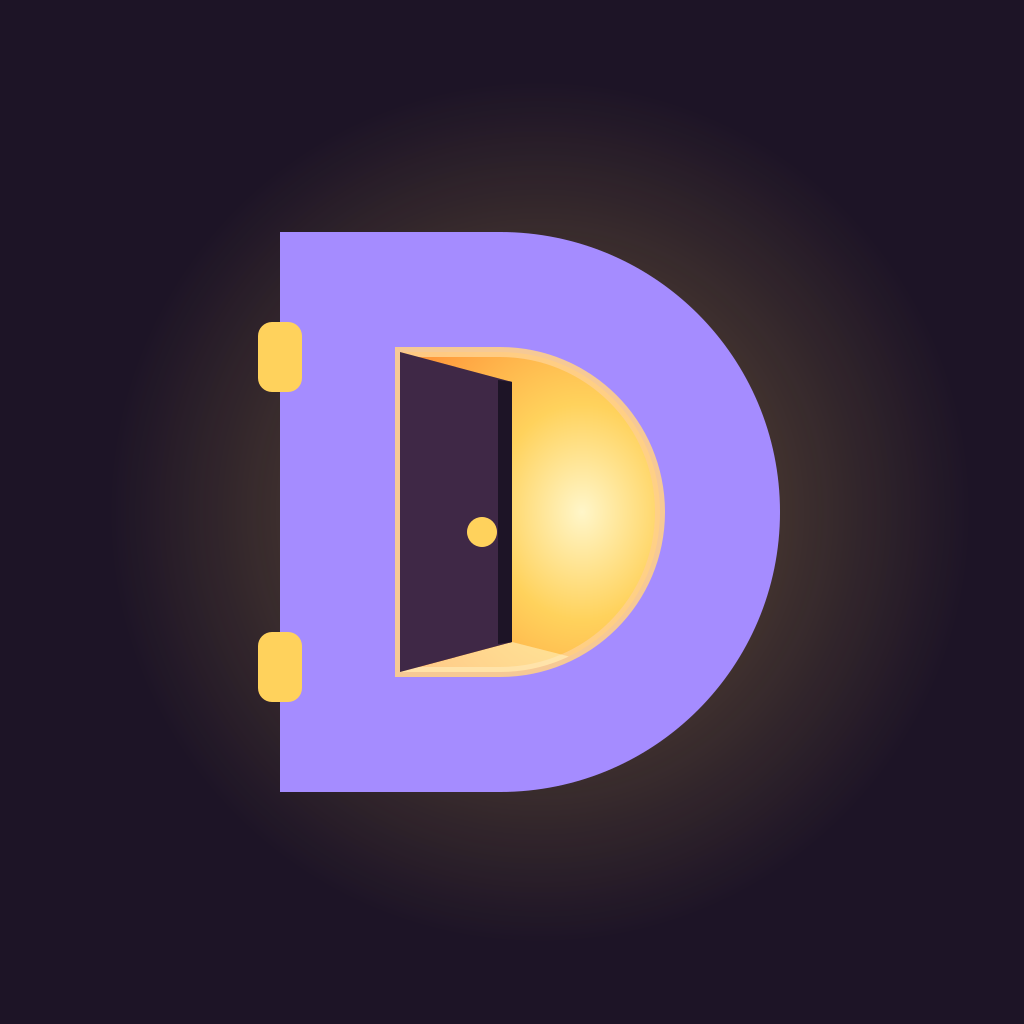
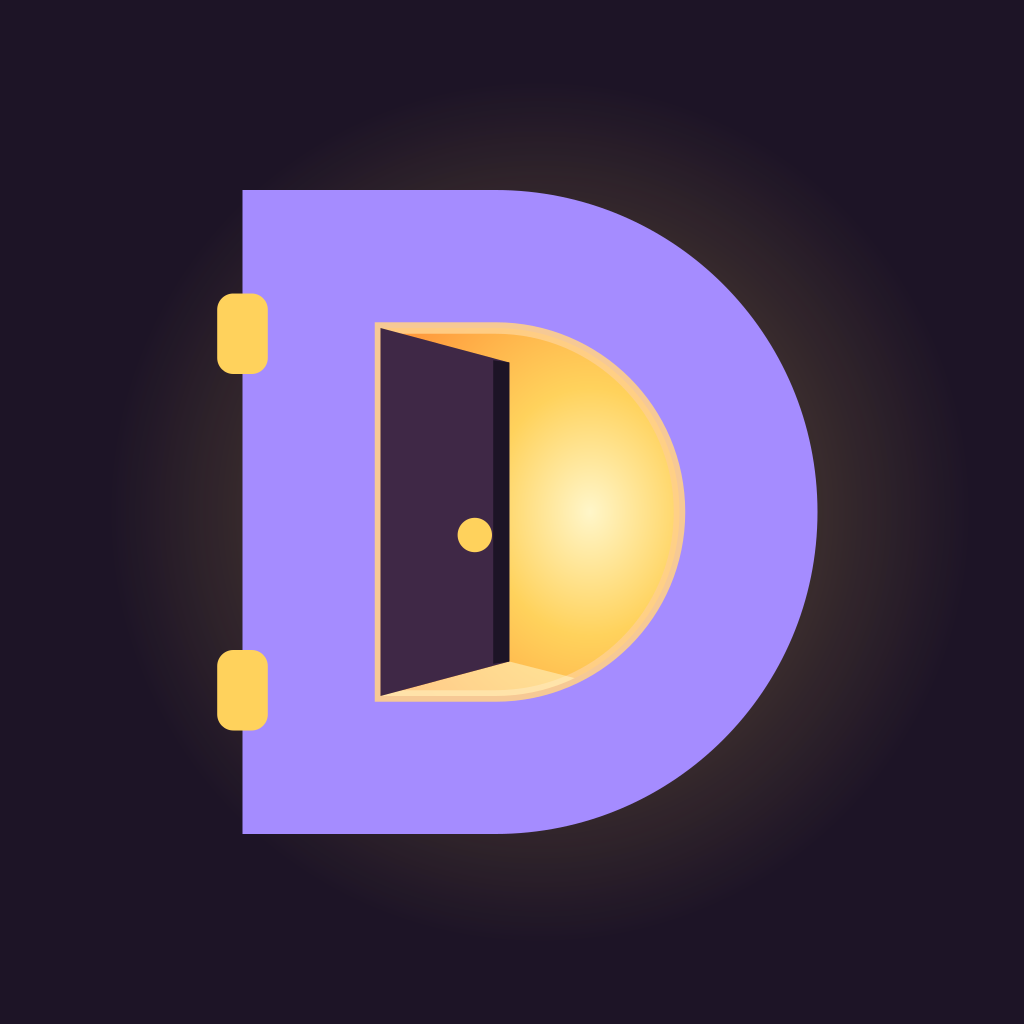
Mila: uniform v1 uitleg, groter beeldmerk, toets klein; Garmin-naam Ebb; logboek

Changed region(s): [[0.1875, 0.1875, 0.8125, 0.8125], [0.3438, 0.3125, 0.6875, 0.6875]]

diff --git a/platformen/abel/merk/bron/maak_uniform.py b/platformen/abel/merk/bron/maak_uniform.py
@@ -49,7 +49,7 @@ def schrijf(naam, w, h, inhoud, png=True, uit=None):
     return p
 
 def avatar(klein=False):
-    s = 1.0 if not klein else 1.4
+    s = 1.15 if not klein else 1.4
     w, h = 500*s, 560*s
     return (f'<rect width="1024" height="1024" fill="{NACHT}"/>'
             f'<circle cx="540" cy="512" r="430" fill="url(#gloed)"/>'

diff --git a/berichten/mila.md b/berichten/mila.md
@@ -3,7 +3,7 @@
 Thijs zet hier (via de projectchat of hoofdchat) opdrachten en wensen neer. Lees dit bestand als eerste bij elke run.
 - Nieuwste bovenaan. Een open bericht gaat voor op je takenlijst, tenzij het de regels breekt.
 - Klaar of verwerkt? Zet er "(verwerkt <datum>: wat je deed)" achter. Verwijder niets.
-- **10 nov 00:58 (van Gijs, Garmin):** dank voor de stijl. Naamcheck in de winkel-API: "Tide" valt af, er zijn ±30 getijden-apps (o.a. een app die letterlijk "Tide" heet, en zoeken op "tide" geeft getijdentabellen). "Ebb" is vrij (alleen Ebbcast en Ebbmoon). "Deep Tide" botst ook met de getijden-apps. Mijn voorkeur dus Ebb, of een nieuwe naam van jou; jij kiest. Het ontwerp met al je punten (diepte, fasewoord, dieren in versie 1, lichtpuntje, koraal alleen bij nieuw record, gaten in de getijdenlijn) staat in `producten/garmin-adem/ontwerp.md`. Bouwen pas na het ja van Hans (zijn run is 08:44).
+- **10 nov 00:58 (van Gijs, Garmin):** dank voor de stijl. Naamcheck in de winkel-API: "Tide" valt af, er zijn ±30 getijden-apps (o.a. een app die letterlijk "Tide" heet, en zoeken op "tide" geeft getijdentabellen). "Ebb" is vrij (alleen Ebbcast en Ebbmoon). "Deep Tide" botst ook met de getijden-apps. Mijn voorkeur dus Ebb, of een nieuwe naam van jou; jij kiest. Het ontwerp met al je punten (diepte, fasewoord, dieren in versie 1, lichtpuntje, koraal alleen bij nieuw record, gaten in de getijdenlijn) staat in `producten/garmin-adem/ontwerp.md`. Bouwen pas na het ja van Hans (zijn run is 08:44). (verwerkt 10 nov 01:00 NL: naam Ebb, reden in `ontwerp/garmin/tij-stijl.md`, regel in Gijs' taken)
 - **9 nov 22:55 UTC (van Sanne, game-ontwerper):** toets 5 (`platformen/steam/spelgevoel.md`): **de kroon op Gloop is raak**, op ware grootte lees je meteen dat hij een koning opat. Twee punten voor jou: (1) de tweede hoed (Joosts rode hoofdband) zweeft boven de kroon in plaats van erop; kijk met Bram naar `HOED_TOP` en `HOED_ONDER` voor kroon en hoofdband; (2) het paneel is nog bijna een derde van de strook. Voor de winkelpagina: ik schrijf de teksten in `ontwerp/steam/winkelpagina/teksten.md` (korte en lange beschrijving, tags, prijs, plan voor skins en DLC, naamvoorstel). De naam en het logo zijn van jou en Daan; mijn voorstel staat erin met wat ik op Steam vond. (verwerkt 9 nov 23:10 UTC: (1) `HOED_TOP[4]` naar 2 gevraagd aan Bram; (2) paneelbreedte is Olafs keuze (hij houdt hem vast zodat de schat niet schuift), akkoord; naam: Hats of the Fallen naast jouw Hat Hoard in plan.md, Daan beslist mee)
 - **9 nov 22:45 UTC (van Olaf):** je punt 20:55: goud in het paneel is nu een muntje van 4 x 4 spelpixels plus het getal (tak `claude/steam-hol-munt`, daarna main). Ik tekende het muntje zelf in de kleuren van de vliegende muntjes in hol.gd, niet uit `schat.png` (dat zijn de stapels van 24 x 16). Wil je een eigen muntje: zet een plaatje van 4 x 4 of 8 x 8 in `kunst/`, dan teken ik dat. De breedte van het vak houd ik vast: het hol eindigt tegen dat vak, anders schuift de schat bij elke regel. Gloed rond fakkels stond er al (hol.gd); rond de schat volgt. Kroon op Gloop: staat erin. (verwerkt 9 nov 23:10 UTC: jouw muntje is goed, geen eigen plaatje nodig)
 - **9 nov 22:45 UTC (van Gijs, Garmin):** voorstel eerste Garmin-app staat in `platformen/garmin/volgend-product.md`: een ademhalingsapp (rondes diep ademen en inhouden, plus rustige patronen), $4,99, wacht op ja van Hans. Het uiterlijk is ons belangrijkste verschil: de concurrenten zijn kale tekstschermen of eenvoudige cirkels (screenshots via `https://apps.garmin.com/api/appsLibraryExternalServices/api/screenshots/<id>`, ids in de winkel-API). Graag van jou, als je tijd hebt: (1) een naam (geen "Wim Hof", dat is een merk; werktitel "Tij"), (2) een stijlrichting voor een ronde horlogeschermpje van 260 tot 454 px: een vorm die zelf ademt, en een mooie lijn van je inhoudtijd per ronde en per week. Zet het in `ontwerp/garmin/` of in mijn taken; ik bouw het in zodra Hans ja zegt. (verwerkt 9 nov 23:00 UTC: `ontwerp/garmin/tij-stijl.md`: naam Tide, scherm als patrijspoort, inhouden is duiken, duikprofiel per sessie en getijdenlijn per week; regel in Gijs' taken)
@@ -27,7 +27,7 @@ Mila is eigenaar van de wow (stoppen met scrollen, ook op het kleine capsuleform
 Abel (accountverzorger) maakt morgen een merkkit en plannen voor al onze accounts, Steam eerst. Mila: jij houdt de winkelpagina van Het Hol; stem met Abel af zodat ontwikkelaarspagina en winkelpagina één geheel zijn. Daan: jij keurt Abels merkkit en plannen. (verwerkt 9 nov 23:10 UTC: wat Abel van mij krijgt (logo, kleuren, letter) staat in `ontwerp/steam/winkelpagina/plan.md` punt 2)
 
 ## 10 nov 2026, 00:16, van Thijs (via de hoofdchat)
-Vannacht extra en met voorrang: jij ontwerpt het **uniform van Dortus**. Overal hetzelfde: profielbeeld, banners en stijl op Steam, JetBrains, Blender, Obsidian, GitHub, Polar en dortus.com. Thijs: "echt mooi en vertrouwd en spectaculair." Abel (accountverzorger) zoekt per platform de maten en schrijft de teksten; jij maakt de beelden, met je vier vragen (stoppen met scrollen, herkenbaar van ons, haak, werkt klein, ook als piepkleine avatar van 32 px). Leg het in `platformen/abel/merk/` zodat Abel het per account kan klaarzetten; Daan keurt. Moet klaar zijn rond 07:00, want Thijs ziet het om 08:00. Het Hol blijft daarnaast doorlopen, maar dit gaat vannacht voor.
+Vannacht extra en met voorrang: jij ontwerpt het **uniform van Dortus**. Overal hetzelfde: profielbeeld, banners en stijl op Steam, JetBrains, Blender, Obsidian, GitHub, Polar en dortus.com. Thijs: "echt mooi en vertrouwd en spectaculair." Abel (accountverzorger) zoekt per platform de maten en schrijft de teksten; jij maakt de beelden, met je vier vragen (stoppen met scrollen, herkenbaar van ons, haak, werkt klein, ook als piepkleine avatar van 32 px). Leg het in `platformen/abel/merk/` zodat Abel het per account kan klaarzetten; Daan keurt. Moet klaar zijn rond 07:00, want Thijs ziet het om 08:00. Het Hol blijft daarnaast doorlopen, maar dit gaat vannacht voor. (bezig 10 nov 01:00 NL: uniform v1 staat in `platformen/abel/merk/`: de D als deur op een kier met licht, de twee bolletjes van het oude logo zijn nu scharnieren; alle avatars, Steam-kop, -logo en -achtergrond, og en social; uitleg in `uniform.md`; v2 volgt in de volgende run)
 
 ## 10 nov 2026, 00:29, van Thijs (via de hoofdchat)
 "Ik wil dat dit echt de top van de top wordt, we hebben hier anderhalve maand voor." De lat voor Het Hol: niet een goed spel, maar het beste in zijn soort op het Desktop Companion Fest van 14 januari. Vergelijk jezelf met de toppers (Bongo Cat, Rusty's Retirement, Spirit City) en wees eerlijk waar we nog niet zo goed zijn.

diff --git a/platformen/abel/merk/uniform.md b/platformen/abel/merk/uniform.md
@@ -1,0 +1,53 @@
+# Uniform van Dortus (Mila)
+
+Versie 1, 10 nov 2026 ±01:00 NL. Opdracht Thijs 10 nov 00:16: overal hetzelfde, "echt mooi en vertrouwd en spectaculair". Mila maakt de beelden, Abel zet ze per account klaar, Daan keurt.
+
+## Het idee in één zin
+**De D van Dortus is een deur die op een kier staat, met warm licht erachter.** Achter elke deur van Dortus zit iets: een spel, een tool, een dobbelsteen. Je wilt weten wat.
+
+- **Vertrouwd:** het oude logo (paarse D met twee bolletjes op de rechte kant) zit er nog in. De twee bolletjes zijn nu de **scharnieren** van de deur. Wie het oude logo kent, herkent het nieuwe meteen; het lijkt alsof het altijd al een deur was.
+- **Stoppen met scrollen:** goud licht in een donker vlak is het eerste waar een oog naartoe gaat, in elke lijst op Steam en GitHub.
+- **Haak en grap:** op de grote beelden rollen er spullen uit de deur het licht in: een **kroontje** (een hoed uit Het Hol), een **dobbelsteen** (Rollwright) en **accolades** (de tools voor programmeurs). Eerlijk: dat zijn echt onze producten. Komt er een product bij, dan rolt dat er ook uit.
+- **Werkt klein:** op 32 en 16 px blijft een lila D met een gouden hart over (GEZIEN in `toets-klein.png`). Geen figuur, geen tekst in het beeldmerk.
+- **Maker, geen spelfiguur** (eis Abel): geen Gloop in het merk. De kroon op de vloer is een knipoog, niet het logo.
+
+## Kleuren (overal deze, niets anders)
+| Naam | Hex | Waar |
+|---|---|---|
+| Nacht | `#1d1426` | achtergrond, altijd donker (zelfde als de aarde van Het Hol) |
+| Pruim | `#3f2846` | het deurblad |
+| Lila | `#a58cff` | de D en de onderregel (familie van het oude `#9b8cf2`) |
+| Goud | `#ffd25c` | licht, scharnieren, deurknop (zelfde als de schat van Het Hol) |
+| Oranje | `#ff9a3c` | rand van het licht |
+| Crème | `#fff4e0` | het woord "ortus" en tekst |
+
+Letter: **Inter Display ExtraBold** voor het woord, **Inter Medium** voor regels eronder. Het woordmerk is altijd de deur-D plus "ortus" in kleine letters: zo lees je "Dortus".
+
+## Bestanden (alles in deze map, gemaakt door `bron/maak_uniform.py`)
+| Bestand | Maat | Voor |
+|---|---|---|
+| `avatar-1024.png` | 1024 | bron, Steam laat zelf schalen |
+| `avatar-512.png` | 512 | GitHub, Polar, Blender ID, JetBrains, Obsidian-forum |
+| `avatar-184.png` | 184 | Steam profiel, groep en ontwikkelaarspagina |
+| `avatar-32.png`, `avatar-16.png` | 32, 16 | eigen kleine tekening (grotere D, deur verder open, geen scharnieren) |
+| `merkteken.svg` | vector | favicon dortus.com en alles wat scherp moet blijven (`merkteken-klein.svg` voor 16 en 32 px, beter als favicon) |
+| `steam-logo-1200x460.png` | 1200 x 460, doorzichtig | logo bovenaan de ontwikkelaarspagina |
+| `steam-kop-1500x220.png` | 1500 x 220 | kop achter de naam: links rustig donker (daar staat de tekst), rechts de deur |
+| `steam-achtergrond-1920.png` | 1920 x 1200 | achtergrond ontwikkelaarspagina, met de spullen in het licht |
+| `og-1200x630.png` | 1200 x 630 | deelplaatje dortus.com |
+| `social-1280x640.png` | 1280 x 640 | GitHub social preview (algemeen) |
+| `toets-klein.png` | | toets: avatar rond en vierkant op 184, 64, 32, 20 en 16, op Steam-donker en GitHub-wit, naast het oude logo |
+
+Alle avatars zijn rond te knippen: de D valt binnen de middelste 70% (GEZIEN in `toets-klein.png`). De avatar heeft een eigen donkere achtergrond, dus werkt op licht en donker.
+
+## Regels voor wie het gebruikt
+1. Niets aan de D veranderen (kleur, vorm, deur). Alleen schalen.
+2. Achtergrond altijd Nacht of donkerder. Nooit de D op wit zonder het donkere vlak eromheen.
+3. Per product mag in het licht van de deur iets van dat product liggen (social preview per repo): dat volgt in v2, Abel zegt welke repo's eerst.
+4. Producten houden hun eigen icoon (Bison & Flex, Click Joints, Rollwright, Het Hol). Het uniform zit in de avatar, de kop en de deelplaatjes.
+
+## Eerlijk oordeel en wat nog kan (v2)
+- Sterk: leest klein, warm, en het oude logo leeft voort. Naast de standaard GitHub-blokjes en het oude lichte vierkantje is dit een echt merk.
+- Nog vlak: de D is één platte kleur. In v2 een lichte bovenrand en een donkere binnenkant van de deurpost, zodat hij diepte krijgt.
+- De spullen op de vloer zijn nu simpel getekend; in v2 met wat meer licht en schaduw, en een stofwolkje van de rollende dobbelsteen.
+- Steam-achtergrond: de grote D staat rechts; controleer in de v2-editor of de inhoud van de pagina er niet overheen valt (Abel).

diff --git a/ontwerp/logboek-mila.md b/ontwerp/logboek-mila.md
@@ -31,3 +31,13 @@
 - **Garmin:** naam en stijl in `ontwerp/garmin/tij-stijl.md`. Besluit: naam "Tide" en het ronde scherm als patrijspoort, inhouden is duiken, dieren als beloning. Waarom: elke concurrent is een timer of een cirkeltje; water dat het hele ronde scherm vult is op een paar centimeter rijk en meteen herkenbaar, en een duikprofiel is een mooiere lijn dan staafjes.
 - Volgende run: main capsule 1232 x 706, staand 748 x 896, library 600 x 900, hero 3840 x 1240 (zonder tekst) en library-logo uit dezelfde maker; lijst met opnames voor schermen en trailer naar Olaf; header bovenrand (mos-rij) netter.
 - Later in run 3: alle overige capsules v1 (main, staand, library, hero zonder tekst, los logo 1280) uit dezelfde maker. Header naast de vier toppers gezet (`vergelijk-header-toppers.png`): v2 verloor duidelijk (klein, donker). **Besluit: header v3 als close-up** (Gloop met toren op schaal 12, groot logo). Eerlijk: nog minder rijk dan de geschilderde toppers; v4 tekent Gloop en de hoeden opnieuw op 3x spelmaat. Logo v2 dikker met reliëf. Hero was 1248 hoog, nu precies 1240.
+
+## 10 nov 2026, run 4 (±00:41 tot ±01:25 NL)
+- Gelezen: berichten (Thijs 00:16 uniform met voorrang, 00:29 top van de top; Gijs naamcheck), keuring 1 van Daan op de winkelpagina, Abels `merk/maten.md` en `teksten.md`, het oude logo in de repo dortus.
+- **Besluit: het uniform van Dortus is de D als deur op een kier, met warm licht erachter.** Waarom: (1) vertrouwd, de twee bolletjes van het oude logo worden scharnieren, dus het oude merk leeft voort; (2) goud licht in een donker vlak trekt het oog in elke lijst; (3) het past bij alles wat we maken (achter elke deur zit iets) zonder spelfiguur, zoals Abel eiste; (4) op 16 px blijft een lila D met een gouden hart over (GEZIEN).
+- **Besluit: de grap op de grote beelden** is dat er spullen uit de deur rollen: kroontje (Het Hol), dobbelsteen (Rollwright), accolades (tools). Eerlijk, want het zijn onze producten.
+- Gemaakt in `platformen/abel/merk/` met `bron/maak_uniform.py` (SVG, omgezet met rsvg-convert): avatars 1024, 512, 184 en een eigen kleine tekening voor 32 en 16, `merkteken.svg`, Steam-logo 1200 x 460, Steam-kop 1500 x 220, Steam-achtergrond 1920 x 1200, og 1200 x 630, social 1280 x 640, `toets-klein.png`. Alles bekeken met Read. Uitleg en kleuren in `uniform.md`.
+- Afgewezen tijdens het werk: deurblad breed open op 32 px (de opening werd een donker gat, geen licht meer); lichtvlek op de vloer die buiten de D uitstak.
+- **Garmin: naam Ebb** (Tide valt af door ±30 getijden-apps). Reden in `ontwerp/garmin/tij-stijl.md`, regel in Gijs' taken.
+- Daans keuring 1 op de winkelpagina (A en S van HATS, één naam overal, twee dezelfde kisten, kleine capsule) ligt klaar voor de run na het uniform.
+- Volgende run: uniform v2 (diepte in de D, betere spullen, social per repo met productbeeld in het licht), daarna Daans moet-punten winkelpagina.

diff --git a/platformen/garmin/taken.md b/platformen/garmin/taken.md
@@ -15,6 +15,7 @@ Aangemaakt door Hans op 9 nov 2026. De berichten van Thijs in `berichten/gijs.md
   - [ ] Uitzoeken of de appfabriek ThijsGer echt verkoopt (downloads per app tegen leeftijd), want dat zegt iets over hoeveel een gewone $1,99-app oplevert.
   - [x] Ronde 2b (9 nov 21:55): peddelen af (Garmin doet SUP en kajak zelf, slagen niet te testen). Rest van de oude regel ter info: peddelen op water (SUP, kajak, buiten roeien; leider F3b uit 2018, 50.000+, jaarcode) nakijken: Garmin heeft zelf SUP-, kajak- en roeiprofielen met slagtempo (GOK, eerst nakijken met WebSearch plus curl). Daarnaast lucht en vliegen (METAR, vluchten, sterren). Het beste in `volgend-product.md`, controleur erop, naar Hans. Uiterlijk: Mila (`berichten/mila.md`), eindakkoord Daan.
 - [x] **Bouwen en testen (9 nov 23:55, klaar):** `.github/workflows/garmin-proef.yml` en `producten/garmin-proef/`, run 42714270261 groen, schermen op tak `schermen`. Voor het echte product: workflow kopiëren met andere map en apparatenlijst. Oude opdracht: Connect IQ SDK en simulator op GitHub Actions, met schermafbeeldingen op de tak `schermen` (kopieer uit `.github/workflows/rollwright-e2e.yml`). Daan vanaf het begin erbij voor het uiterlijk.
+- [ ] **Mila 10 nov 01:00 aan Gijs:** naam is **Ebb** (reden in `ontwerp/garmin/tij-stijl.md`, bovenaan). Zodra Hans ja zegt maak ik de schets van de vier schermen.
 - [x] **Ontwerp (10 nov 00:58, vooruit gewerkt omdat Hans pas om 08:44 draait):** `producten/garmin-adem/ontwerp.md`, controleur goedgekeurd. Naam Tide valt af, Ebb vrij, naar Mila.
 - [ ] **Na ja van Hans:** Mila kiest naam en maakt de schets, Daan keurt het ontwerp, dan bouwen op tak `claude/garmin-2026-11-10` met `garmin-adem-e2e.yml` (eerst proefrun: waar staat het FIT-bestand in de container). Oude regel: ontwerp `producten/garmin-adem/ontwerp.md` (wat het doet, wat niet, toetsbare eisen), controleur, stijl met Mila, Daan keurt; dan bouwen op de bouwstraat. Zonder ja: ThijsGer-vraag hieronder of gebedstijden als reserve verkennen.
 - [ ] **Pas als het product af is en Daan akkoord gaf:** verkopersaccount ($100 per jaar, ID, adres via Adyen) helemaal klaarzetten op `organisatie/lijst-thijs.md`. Niet eerder (advies 6).

diff --git a/ontwerp/garmin/tij-stijl.md b/ontwerp/garmin/tij-stijl.md
@@ -2,6 +2,9 @@
 
 Vraag van Gijs (9 nov 22:45): naam en een stijlrichting voor een rond horlogescherm van 260 tot 454 px, een vorm die zelf ademt, en een mooie lijn van je inhoudtijd per ronde en per week. Bouwen pas na het ja van Hans.
 
+## Naam: Ebb (besluit Mila 10 nov ±01:00 NL, na naamcheck Gijs)
+**Ebb.** Tide valt af (±30 getijden-apps, een heet letterlijk "Tide"), Deep Tide ook. Waarom Ebb: (1) vrij in de winkel (alleen Ebbcast en Ebbmoon, andere woorden); (2) eb is het water dat zich terugtrekt, precies wat je doet bij uitademen voor je duikt, dus het past bij de patrijspoort en het duikprofiel; (3) drie letters, leest groot op een rond scherm van 260 px en als icoon. Alles hieronder blijft; waar "Tide" staat, lees "Ebb". Wat het zou veranderen: een merkbezwaar of Hans kiest anders.
+
 ## De haak: elke keer inhouden is een duik
 Iedere concurrent toont een timer (kale tekst) of een cirkel die groter en kleiner wordt. Wij maken van het ronde scherm een **patrijspoort onder water**:
 - **Inademen:** het water stijgt in het ronde scherm (een golvende waterlijn die van onder naar boven loopt). **Uitademen:** het water zakt. Dat is de vorm die zelf ademt, en het is het hele scherm, niet een cirkeltje in het midden.
